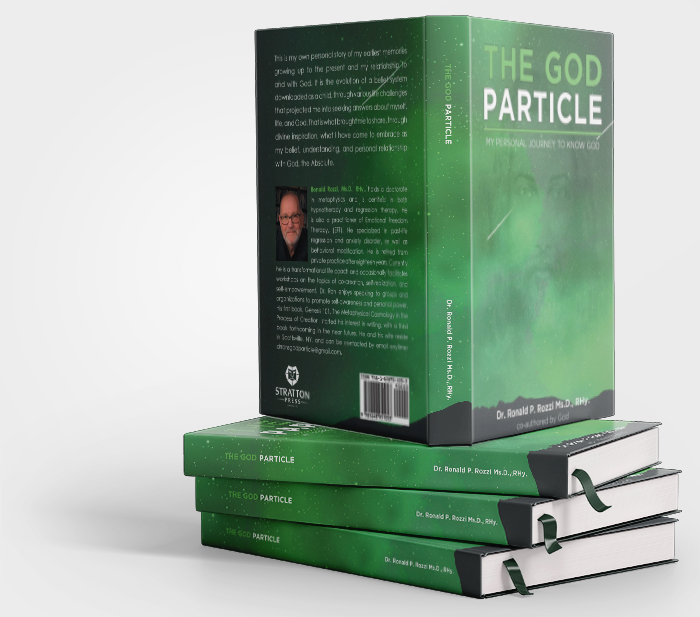
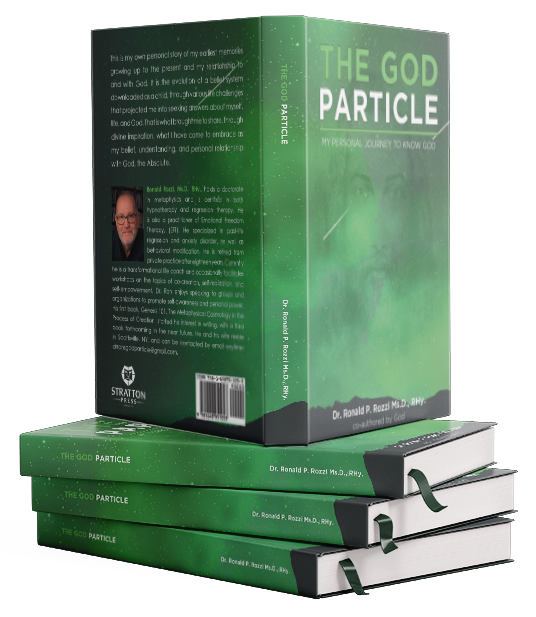
2nd commit

diff --git a/src/pages/about-the-book.js b/src/pages/about-the-book.js
@@ -4,7 +4,7 @@ import Nav from '../components/nav'
 import Banner from '../components/non-front-banner'
 import BookInfo from '../components/book-info/book-info'
 import { DiscussionEmbed } from "disqus-react"
-import Book1 from '../../static/book/book-min.png'
+import Book1 from '../../static/book/book.png'
 import { Helmet } from "react-helmet"
 
 const ATB = (props)=>{
@@ -13,7 +13,7 @@ const ATB = (props)=>{
     const slug =(props.location.href);
     
 	const disqusConfig = {
-	  shortname: 'frank-gilbertson',
+	  shortname: 'dr-ronald-p-rozzi-ms-d-rhy',
 	  config: { identifier:  12, slug}
     }
     
@@ -48,13 +48,18 @@ const ATB = (props)=>{
                                     
                                     ebooks:{
                                         stratton : '',
-                                        barnes: 'https://www.barnesandnoble.com/w/wasted-youth-frank-gilbertson/1008619329?ean=9781643458861',
-                                        amazon :'https://www.amazon.com/Wasted-Youth-Frank-Gilbertson-ebook/dp/B08FPCD5YM/ref=sr_1_1?dchild=1&keywords=9781643458861&qid=1597777519&sr=8-1', 
+                                        barnes: 'https://www.barnesandnoble.com/w/the-god-particle-rhy-dr-ronald-p-rozzi-msd/1137318337?ean=9781648951060',
+                                        amazon :'https://www.amazon.com/Particle-RHy-Ronald-Rozzi-Ms-D-ebook/dp/B08CQM5HLW/ref=sr_1_1?dchild=1&keywords=9781648951060&qid=1594396171&sr=8-1', 
                                     },
                                     paperback:{
-                                        amazon:'https://www.amazon.com/Wasted-Youth-Frank-Gilbertson/dp/1643458841/ref=tmm_pap_swatch_0?_encoding=UTF8&qid=1597777519&sr=8-1',
-                                        barnes:'https://www.barnesandnoble.com/w/wasted-youth-frank-gilbertson/1008619329?ean=9781643458847',
-                                        booksamillion:'https://www.booksamillion.com/p/Wasted-Youth/Frank-Gilbertson/9781643458847?id=8079271834425',
+                                        amazon:'https://www.amazon.com/God-Particle-Personal-Journey-Know/dp/1648951058/ref=sr_1_1?dchild=1&keywords=9781648951053&qid=1594756683&sr=8-1',
+                                        barnes:'https://www.barnesandnoble.com/w/the-god-particle-dr-rhy-ronald-p-rozzi-ms-d/1137333891?ean=9781648951053',
+                                        booksamillion:'https://www.booksamillion.com/p/God-Particle/Rhy-Ronald-P-Rozzi-MS/9781648951053?id=8158356429268',
+                                    },
+                                    hardcover:{
+                                        amazon:'https://www.amazon.com/God-Particle-Personal-Journey-Know/dp/1648951074/ref=sr_1_1?dchild=1&keywords=9781648951077&qid=1594756701&sr=8-1',
+                                        barnes:'https://www.barnesandnoble.com/w/the-god-particle-dr-rhy-ronald-p-rozzi-ms-d/1137333891?ean=9781648951077',
+                                        booksamillion:'https://www.booksamillion.com/p/God-Particle/Rhy-Ronald-P-Rozzi-MS/9781648951077?id=8158356429268',
                                     }
                                 }}
                             />

diff --git a/src/components/book-info/book-info.js b/src/components/book-info/book-info.js
@@ -15,8 +15,8 @@ const BookInfo = (props)=>{
                 <div className="column" id={props.data.id}>
                     <section className="contentBook">
 
-                        <h1>{props.data.title} <span>{props.data.spanTitle}</span></h1>
-                        
+                        <h1>{props.data.title}</h1>
+                        <span>{props.data.spanTitle}</span>
                         <p>
                             {props.data.content}
                         </p>
@@ -43,9 +43,9 @@ const BookInfo = (props)=>{
 
                         <nav className="booklinkBlocks">
                             <span>Hardcover :</span>
-                            <li><a rel="noopener noreferrer" target="_blank" href={props.data.paperback.amazon}>Amazon</a></li>
-                            <li><a rel="noopener noreferrer" target="_blank" href={props.data.paperback.barnes}>Barnes & Noble </a></li>
-                            <li><a rel="noopener noreferrer" target="_blank" href={props.data.paperback.booksamillion}>Books A Million</a></li>
+                            <li><a rel="noopener noreferrer" target="_blank" href={props.data.hardcover.amazon}>Amazon</a></li>
+                            <li><a rel="noopener noreferrer" target="_blank" href={props.data.hardcover.barnes}>Barnes & Noble </a></li>
+                            <li><a rel="noopener noreferrer" target="_blank" href={props.data.hardcover.booksamillion}>Books A Million</a></li>
                         </nav>
                     </section>
                 </div>	

diff --git a/src/components/footer.js b/src/components/footer.js
@@ -19,7 +19,7 @@ const Footer = ()=>{
                     <nav>
                         <ul>
                             <li>
-                                <a href="https://www.facebook.com/Frank-Gilbertson-102147364947226/"
+                                <a href="https://www.facebook.com/Dr-Ronald-P-Rozzi-MsD-RHy-117497193389044/"
                                    target="_blank" rel="noreferrer">
                                     <FontAwesomeIcon
                                         className='font-awesome'
@@ -49,7 +49,7 @@ const Footer = ()=>{
                             <li>
                                 <a 
                                     target="_blank"
-                                    href="https://www.goodreads.com/book/show/55029733-wasted-youth" rel="noreferrer">
+                                    href="https://www.goodreads.com/book/show/54630156-the-god-particle" rel="noreferrer">
                                     <FontAwesomeIcon 
                                         className='font-awesome'
                                         icon={faGoodreads} />
@@ -59,7 +59,7 @@ const Footer = ()=>{
                     </nav>
 
                     <div className="two-grid-column">
-                        <p>Copyright 2020. Stratton Press</p>
+                        <p>Copyright {new Date().getFullYear()}. Stratton Press</p>
 
                         <ul>
                             <li>

diff --git a/src/assets/scss/content.scss b/src/assets/scss/content.scss
@@ -44,7 +44,7 @@
 .upper-style{
     &:before{
         content: '';
-        background: #fff7e8;
+        background: #d5ffcd;
         position: absolute;
         left: 0;
         width: 32%;
@@ -122,7 +122,7 @@
 .image-author{
     &:before{
         content: '';
-        background: #ffdc9b;
+        background: #6e5424;
         height: 428px;
         width: 365px;
         position: absolute;
@@ -214,7 +214,7 @@
         }
     }
     input[name="submit"]{
-        background: #6D6D61;
+        background: #6fc061;
         border: none;
         color: #ffffff;
         cursor: pointer;
@@ -225,12 +225,12 @@
     button{
         margin: 0;
         font-size:17px !important;
-        background: #6D6D61;
+        background: #6fc061;
     }
 }
 
 .footer-section{
-    background: #14232b;
+    background: #2a2d30;
     padding: 5% 0;
     #footer-info{
         text-align: center;

diff --git a/src/pages/about-the-author.js b/src/pages/about-the-author.js
@@ -2,7 +2,7 @@ import React from 'react'
 import Layout from '../components/layout'
 import Nav from '../components/nav'
 import Banner from '../components/non-front-banner'
-import AuthorImg from '../../static/author/author-photo.png'
+import AuthorImg from '../../static/author/author.png'
 import { Helmet } from "react-helmet"
 const ATB = (props)=>{
 	
@@ -60,7 +60,7 @@ const ATB = (props)=>{
                             <p>
                                 <span className="author-name">
                                     <span className="author-span-ft">Author |  Writer </span>
-                                    Dr. Ronald P. Rozzi, Ms. D., RHy.
+                                    Dr. Ronald P. Rozzi,<br/>Ms. D., RHy.
                                 </span>
                             </p>
                             

diff --git a/src/components/upper-main.js b/src/components/upper-main.js
@@ -1,6 +1,6 @@
 import React,{useEffect, useState} from 'react'
 import {Link} from 'gatsby'
-import AuthorImg from '../../static/author/author-photo.png'
+import AuthorImg from '../../static/author/author.png'
 
 const UpperMain =()=>{
 
@@ -31,7 +31,7 @@ const UpperMain =()=>{
 
                         <div classNames="content-img-wrapper">
                             <section className="content-wrapper-body">
-                                <h1>Dr. Ronald P. Rozzi, Ms. D., RHy.</h1>
+                                <h1>Dr. Ronald P. Rozzi,<br />Ms. D., RHy.</h1>
                                 <span>Author & Writer</span>
 
                                 <p>

diff --git a/src/assets/scss/pages.scss b/src/assets/scss/pages.scss
@@ -371,7 +371,7 @@ $prm-font-size : 12px;
        font-size: 3rem;
        font-weight:900;
        text-transform: uppercase;
-       color: #dc8049;
+       color: #6fc061;
        line-height: 1;
        padding-bottom: 20px;
        border-bottom: 2px solid #ecd9ba;
@@ -379,8 +379,8 @@ $prm-font-size : 12px;
     span{
         font-weight: 900;
         color: #000 !important;
-        // margin: 0.5em 0;
-        // display: block;
+        margin: 0.5em 0;
+        display: block;
         font-size: 1em !important;
     }
 

diff --git a/gatsby-config.js b/gatsby-config.js
@@ -25,7 +25,7 @@ module.exports = {
         background_color: `#663399`,
         theme_color: `#663399`,
         display: `minimal-ui`,
-        icon: `src/images/gatsby-icon.png`, // This path is relative to the root of the site.
+        icon: `static/logo/logo.svg`, // This path is relative to the root of the site.
       },
     },
     `gatsby-plugin-gatsby-cloud`,

diff --git a/src/assets/scss/responsive.scss b/src/assets/scss/responsive.scss
@@ -31,7 +31,7 @@
     .img-wrapper-form{
         &:before{
             content: '';
-            background: linear-gradient(rgb(144, 106, 83), rgba(197, 165, 122, 0.76));
+            background: linear-gradient(#314c3b, #6fc061);
             position: absolute;
             transform: translate(-25px, 69px);
         }

diff --git a/src/assets/scss/banner.scss b/src/assets/scss/banner.scss
@@ -51,7 +51,7 @@
 
 .banner-section{
 
-    background: linear-gradient(#86654d, #ecd9ba);
+    background: linear-gradient(#2c3834, #314c3b);
     height: 100vh;
 
     h1{
@@ -184,7 +184,7 @@
 }
 
 #color-o{
-    color: #dc8049 !important;
+    color: #6fc061 !important;
 }
 
 

diff --git a/src/components/banner.js b/src/components/banner.js
@@ -1,6 +1,6 @@
 import React,{useEffect, useRef} from 'react'
 import {Link} from 'gatsby'
-import  ImgBanner from '../../static/book/book-min.png'
+import  ImgBanner from '../../static/book/book.png'
 
 const Banner = ()=>{
 

diff --git a/src/components/nav.js b/src/components/nav.js
@@ -1,6 +1,6 @@
 import React,{useRef, useState} from 'react'
 import {Link} from 'gatsby';
-import  Logo from '../../static/logo/logo.png'
+import  Logo from '../../static/logo/logo.svg'
 
 const Nav = (props) =>{
 
